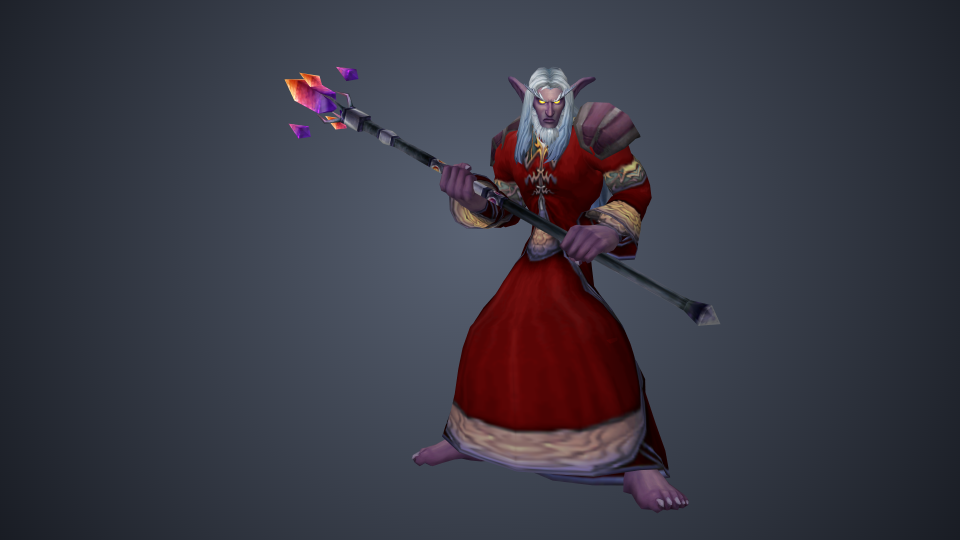
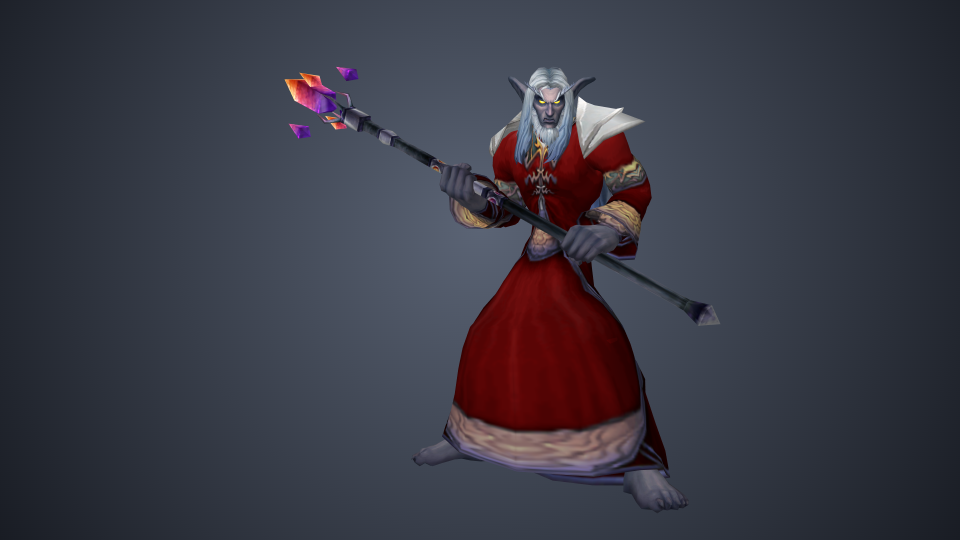
Cassidy Darkstar, matched to her portrait: the grey-lavender skin and the hard-browed face of the game's own frame, and the white Moonlit Amice she wears in the footage in place of the dark leather

Changed region(s): [[0.5312, 0.1481, 0.6875, 0.2963], [0.5, 0.237, 0.5312, 0.2963], [0.6875, 0.9185, 0.7188, 0.9481]]

diff --git a/src/game/saved.ts b/src/game/saved.ts
@@ -46,8 +46,8 @@ export const BUILTIN_CHAMPIONS: readonly SavedChampion[] = [
     sex: 0,
     classId: 11,
     choices: [
-      [40, 696], // Skin Color 2, the purple one
-      [41, 719], // Face 1
+      [40, 699], // Skin Color 5, the grey-lavender of her portrait
+      [41, 721], // Face 3, the hard brow
       [42, 739], // Hair Style: Long
       [43, 753], // Hair Color 5, white
       [738, 8083], // Eyebrows: Long
@@ -55,7 +55,7 @@ export const BUILTIN_CHAMPIONS: readonly SavedChampion[] = [
     ],
     gear: [
       ['chest', 7063], // Crimson Silk Robe
-      ['shoulder', 4252], // Dark Leather Shoulders
+      ['shoulder', 11884], // Moonlit Amice, the white mantle she wears in the footage
       ['mainHand', 12182], // Staff of Jordan, as the game's own NPCs carry it
     ],
     armour: 'Chronicle',

diff --git a/README.md b/README.md
@@ -118,7 +118,7 @@ pnpm mogshot render spec.json     # {"npc": 19015} draws it; a look with a model
 
 The portraits in `public/legends/<slug>.png` are face crops rendered once with the same command (`"camera": {"zoom": 0.3, "panY": -2}` or so, tuned by eye for each model's height), since the browser has no portrait atlas for NPCs.
 
-After the legends stands a champion built into the game, **Cassidy Darkstar**, Chris's night elf druid: a made champion like the player's own (`BUILTIN_CHAMPIONS` in `src/game/saved.ts`, the appearance choices and item ids by number), shown ahead of the CREATE tile, never written to the browser's storage, and not editable or deletable in the creator. [docs/cassidy.json](docs/cassidy.json) draws the same look through the command line ([docs/cassidy.png](docs/cassidy.png)): Crimson Silk Robe, Dark Leather Shoulders and the Staff of Jordan, white hair and beard on the purple skin.
+After the legends stands a champion built into the game, **Cassidy Darkstar**, Chris's night elf druid: a made champion like the player's own (`BUILTIN_CHAMPIONS` in `src/game/saved.ts`, the appearance choices and item ids by number), shown ahead of the CREATE tile, never written to the browser's storage, and not editable or deletable in the creator. [docs/cassidy.json](docs/cassidy.json) draws the same look through the command line ([docs/cassidy.png](docs/cassidy.png)): Crimson Silk Robe, the white Moonlit Amice and the Staff of Jordan, white hair and beard on the grey-lavender skin of her portrait.
 
 ### Spells
 
